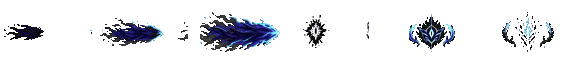
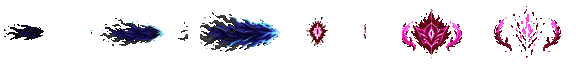
Make Shen taunt feedback unmistakable

diff --git a/mods/lol_mod/tools/build_lol_mod.py b/mods/lol_mod/tools/build_lol_mod.py
@@ -1596,7 +1596,32 @@ def build_vfx() -> list[Path]:
     outputs: list[Path] = []
     for name, (source_path, columns, rows, frame_size, max_visible) in VFX_SOURCES.items():
         source = Image.open(source_path).convert("RGBA")
-        frames = [fit_cell(cell, frame_size, max_visible) for cell in split_grid(source, columns, rows)]
+        frames: list[Image.Image] = []
+        for index, cell in enumerate(split_grid(source, columns, rows)):
+            visible_size = (80, 52) if name == "shen_e" and index >= 3 else max_visible
+            frame = fit_cell(cell, frame_size, visible_size)
+            if name == "shen_e" and index >= 3:
+                # Shadow Dash itself stays cyan-violet, while its target-bound
+                # crowd-control read is deliberately red-magenta.  The color
+                # separation plus the larger foreground mask makes the full
+                # 90-tick taunt unmistakable in a crowded fight.
+                pixels = frame.load()
+                for y in range(frame.height):
+                    for x in range(frame.width):
+                        red, green, blue, alpha = pixels[x, y]
+                        if alpha == 0:
+                            continue
+                        if max(red, green, blue) >= 205 and max(red, green, blue) - min(red, green, blue) <= 70:
+                            pixels[x, y] = (255, max(155, min(225, green)), 255, alpha)
+                            continue
+                        energy = max(red, green, blue)
+                        pixels[x, y] = (
+                            max(red, min(255, energy + 72)),
+                            min(112, round(green * 0.38)),
+                            max(blue, min(255, round(energy * 0.90))),
+                            alpha,
+                        )
+            frames.append(frame)
         if name == "shen_e":
             # The bottom row is impact/taunt feedback, not a second dash wake.
             # Keep any unusually wide generated spark compact so the collision
@@ -2572,7 +2597,7 @@ def build_shen_data() -> Path:
             "pre_tag": "taunt_pre",
             "loop_tag": "taunt_loop",
             "remove_tag": "taunt_remove",
-            "z": 2,
+            "z": 3,
         },
         ],
     }

diff --git a/mods/lol_mod/tools/validate_lol_mod.py b/mods/lol_mod/tools/validate_lol_mod.py
@@ -1015,7 +1015,7 @@ def validate_data_contract(champion: dict[str, Any]) -> None:
                 "pre_tag": "taunt_pre",
                 "loop_tag": "taunt_loop",
                 "remove_tag": "taunt_remove",
-                "z": 2,
+                "z": 3,
             },
         ],
         "Shen E dash-trail/taunt marker visuals are not registered",
@@ -4621,7 +4621,10 @@ def validate_compact_view_and_e_layout() -> None:
         width = bbox[2] - bbox[0]
         height = bbox[3] - bbox[1]
         check(12 <= width <= 88, f"E frame {index} left the 12-88px readable width")
-        check(8 <= height <= 40, f"E frame {index} left the 8-40px readable height")
+        if index < 3:
+            check(8 <= height <= 40, f"E dash frame {index} left the 8-40px readable height")
+        else:
+            check(24 <= height <= 52, f"E taunt frame {index} left the 24-52px readable height")
         check(bbox[0] >= 2 and bbox[2] <= 94 and bbox[1] >= 2 and bbox[3] <= 62, f"E frame {index} touches an atlas edge")
         if index < 3:
             check(width >= height * 2, f"E dash frame {index} is not a horizontal wake")

diff --git a/tests/test_shen_mod.py b/tests/test_shen_mod.py
@@ -332,7 +332,7 @@ def test_shen_q_e_r_contract_uses_recall_empowerment_and_native_taunt() -> None:
             "pre_tag": "taunt_pre",
             "loop_tag": "taunt_loop",
             "remove_tag": "taunt_remove",
-            "z": 2,
+            "z": 3,
         },
     ]
     # Keep the complete renderer records under contract: a valid name without

diff --git a/mods/lol_mod/qa/shen_visual_qa.md b/mods/lol_mod/qa/shen_visual_qa.md
@@ -5,7 +5,7 @@
 | Actor model | accepted built-in image-gen 4x3 high-resolution character anchor, chroma-keyed and uniformly packed to 64x64 frames at the current Shen battle scale | x/y scale remains identical for every source pose; no actor-model or terrain-envelope change is part of the Q/E rework |
 | Idle/run/attack | accepted actor anchor plus accepted 3x3 run refinement | unchanged; nine unique run phases and stable foot baseline |
 | Q | dedicated spectral-blade sheet, repacked into `recall`, `recall_arrival`, and `empowered_hit` tags | distinct; one cyan spirit blade visibly travels from the chosen cast point back to Shen, a small arrival flash confirms the recall, and each of the next three empowered attacks has its own hit read. There is no outbound missile or unsupported pass-through visual. |
-| E | accepted built-in image-gen 3x2 source: three cyan-violet dash-wake phases plus three taunt-impact phases, additionally exposed through `trail_pre/loop/remove` and `taunt_pre/loop/remove` tags | distinct; the caster-follow trail lasts for the dash window, every crossed champion receives a separate impact, and the 90-tick marker sustains the taunt read without restoring W's refuge circle. |
+| E | accepted built-in image-gen 3x2 source: three cyan-violet dash-wake phases plus three taunt-impact phases, additionally exposed through `trail_pre/loop/remove` and `taunt_pre/loop/remove` tags | distinct; the caster-follow trail lasts for the dash window, every crossed champion receives a separate red-magenta impact, and a large foreground mask/eye stays bound to that target for the complete 90-tick taunt without restoring W's refuge circle. |
 | R | existing separate target shield / teleport arrival sheet | distinct; arrival visual no longer carries an unrelated taunt |
 | Skill icons | independent Q source, new E dash/taunt source, independent R source, ordered Q/E/R | distinct |
 | UI surfaces | accepted high-resolution idle source, never the reduced battle atlas | unchanged; encyclopedia, side-list, scoreboard, BP-grid and side-card routes remain independent |
